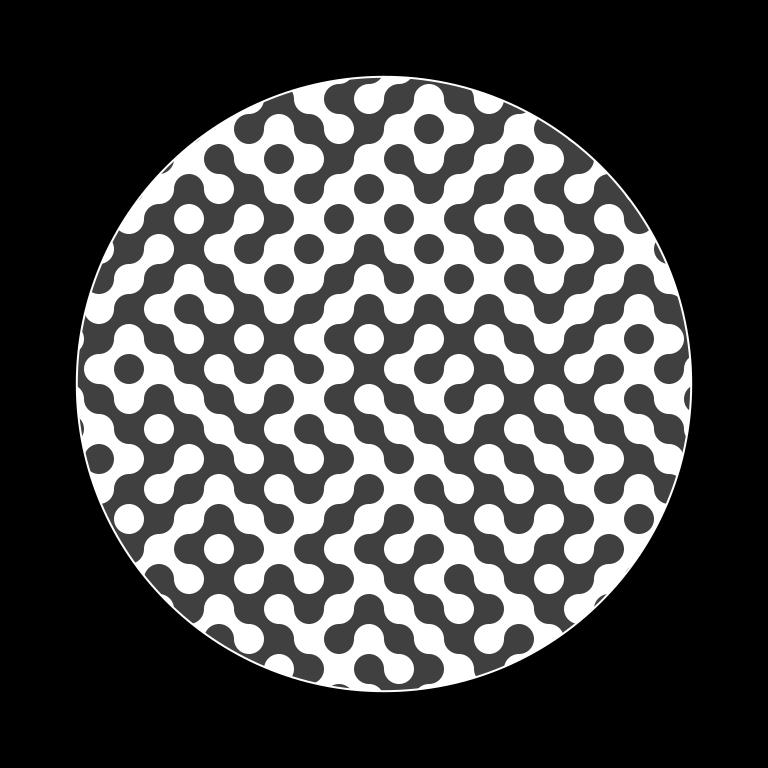
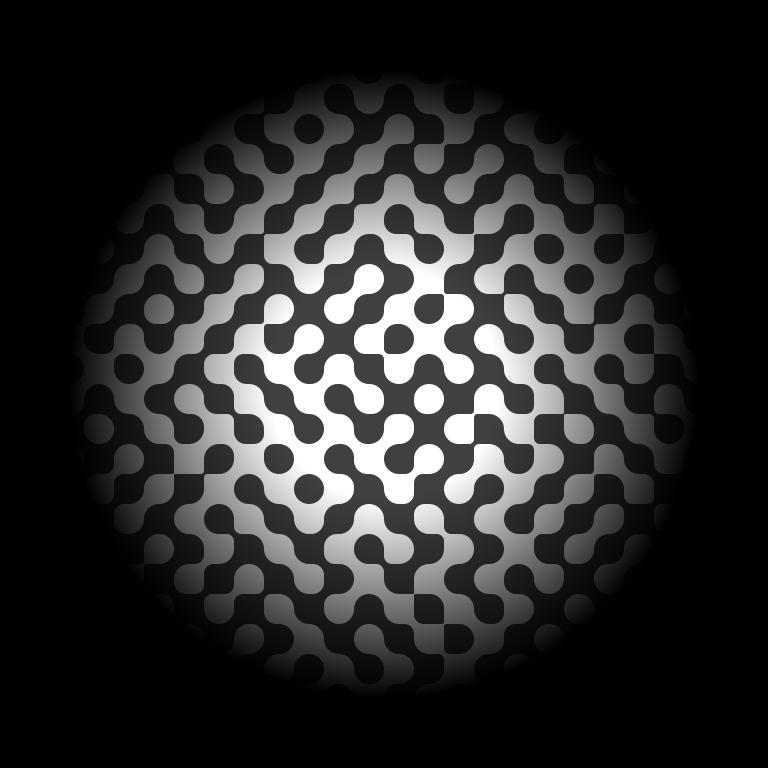
Work on animation truchet_tiles

diff --git a/pieces/truchet/truchet_tiles.py b/pieces/truchet/truchet_tiles.py
@@ -19,6 +19,8 @@ offset = (width/2 - tile_size*tiles[0]/2, height/2 - tile_size*tiles[1]/2)
 
 np.random.seed(123)
 pattern = np.random.choice(a=[-1,1], size=(n_patterns, *tiles))
+offsets = np.random.rand(*tiles)
+gradient = gz.ColorGradient('radial', [(0,(0,0,0,0)),(1,(0,0,0,1))], xy1=(0,0), xy2=(.15*width,0), xy3=(0,tile_size*tiles[0]/2))
 
 
 def draw_tile(x, y, size, surface, odd=False, rotation=1, transition=0.3):
@@ -41,12 +43,13 @@ def draw_tile(x, y, size, surface, odd=False, rotation=1, transition=0.3):
 def make_frame(t):
     surface = gz.Surface(width, height)
     progress = t / duration
+    progress = (progress + offsets) % 1.0
     p = interval_progresses(progress, 2*n_patterns, ['ease_in', 'ease_out']*n_patterns)
-    current_pattern = int(progress * n_patterns)
-    current_interval = int(progress * 2*n_patterns)
 
     for i in range(pattern.shape[2]):
         for j in range(pattern.shape[1]):
+            current_pattern = int(progress[i,j] * n_patterns)
+            current_interval = int(progress[i,j] * 2*n_patterns)
             if pattern[current_pattern, i, j] == pattern[(current_pattern+1)%n_patterns, i, j]:
                 draw_tile(tile_size*i, tile_size*j, tile_size, surface,
                           odd=((i+j)%2 == 0),
@@ -57,15 +60,16 @@ def make_frame(t):
                     draw_tile(tile_size*i, tile_size*j, tile_size, surface,
                               odd=((i+j)%2 == 0),
                               rotation=pattern[current_pattern, i, j],
-                              transition=p[current_interval])
+                              transition=p[current_interval][i,j])
                 else:
                     draw_tile(tile_size*i, tile_size*j, tile_size, surface,
                               odd=((i+j)%2 == 0),
                               rotation=pattern[(current_pattern+1)%n_patterns, i, j],
-                              transition=1 - p[current_interval])
+                              transition=1 - p[current_interval][i,j])
 
-    gz.circle(r=.65 * width, stroke_width=.5 * width).translate([width/2, height/2]).draw(surface)
-    gz.circle(r=.40 * width, stroke_width=2, stroke=(1,1,1)).translate([width/2, height/2]).draw(surface)
+    # gz.circle(r=.65 * width, stroke_width=.5 * width).translate([width/2, height/2]).draw(surface)
+    # gz.circle(r=.40 * width, stroke_width=2, stroke=(.5,.5,.5)).translate([width/2, height/2]).draw(surface)
+    gz.circle(r=width, fill=gradient).translate([width/2, height/2]).draw(surface)
 
     return surface.get_npimage()
 

diff --git a/tools/rendering.py b/tools/rendering.py
@@ -2,6 +2,7 @@ import os, shutil, time
 import subprocess
 from multiprocessing import Pool
 from PIL import Image
+import numpy as np
 basestring = str
 
 
@@ -86,7 +87,7 @@ def interpolate(val, interpolation):
 
 def interval_progress(progress, interval, interpolation=None):
     (start, stop) = interval
-    p = min(1, max(0, (progress - start) / (stop - start)))
+    p = np.minimum(1.0, np.maximum(0.0, (progress - start) / (stop - start)))
     return interpolate(p, interpolation)
 
 def interval_progresses(progress, n_intervals, interpolation=None):
